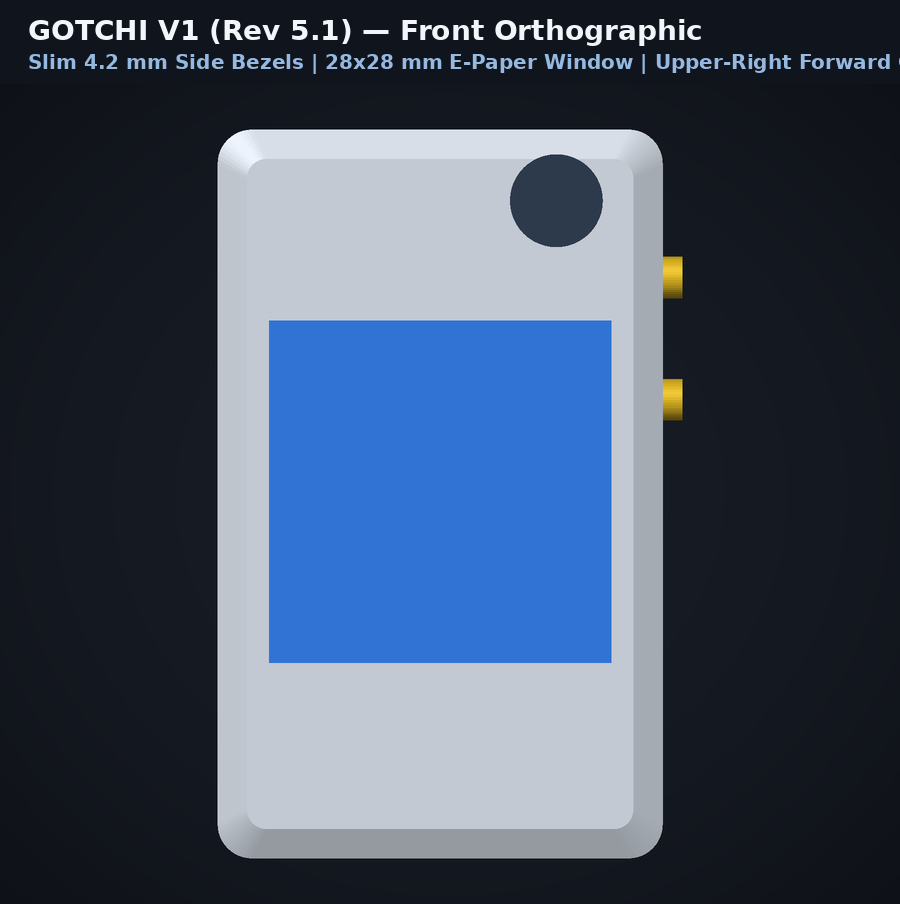
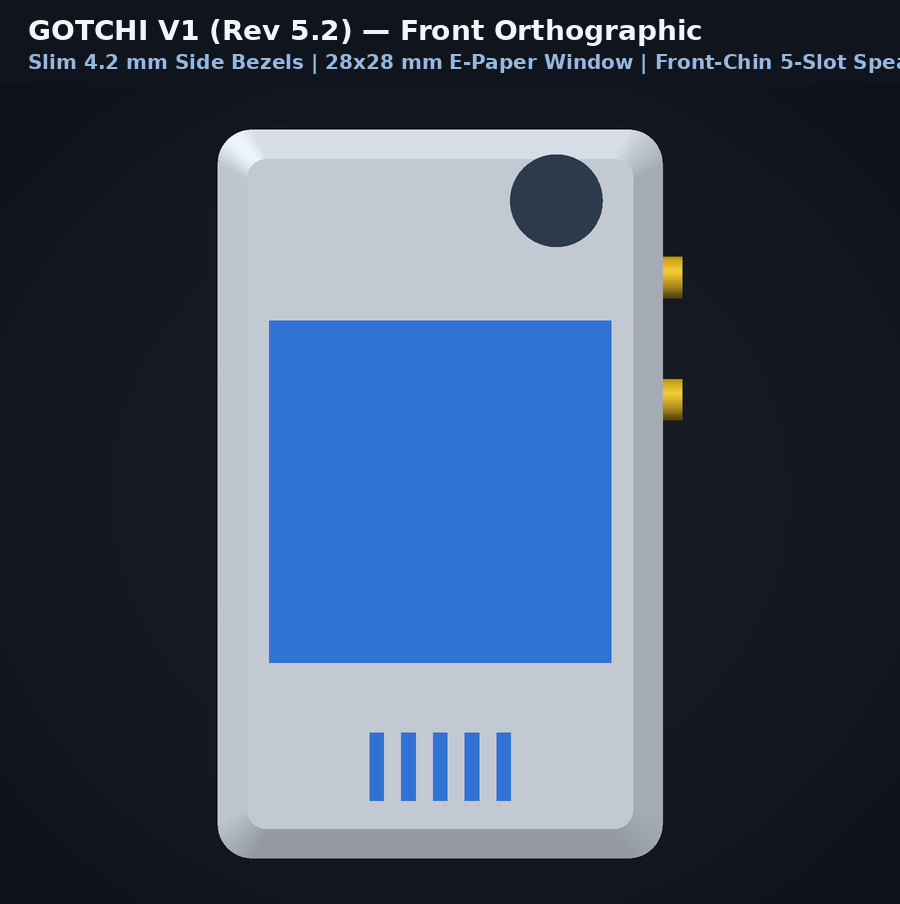
feat(cad): Rev 5.2 front-chin acoustic waveguide & +Z front-firing speaker grille, sealed back wall

Changed region(s): [[0.4044, 0.8053, 0.5911, 0.8982], [0.7156, 0.0619, 1.0, 0.0929]]

diff --git a/cad/render_labeled.py b/cad/render_labeled.py
@@ -1,7 +1,7 @@
 #!/usr/bin/env python3
 """
 render_labeled.py: True Per-Pixel Z-Buffer 3D Studio Renderer, 360° Turntable GIF Generator,
-and Labeled Orthographic CAD Renderer for GOTCHI V1 (Rev 5.1).
+and Labeled Orthographic CAD Renderer for GOTCHI V1 (Rev 5.2).
 
 Why True Per-Pixel Z-Buffer instead of matplotlib Poly3DCollection:
   - Matplotlib's Poly3DCollection uses a whole-triangle Painter's Algorithm (sorting triangles
@@ -281,7 +281,7 @@ def generate_top_labeled(p, out_path):
     f_title, f_sub, f_lbl, f_sm = load_fonts()
 
     d.rectangle([0, 0, W, 92], fill=(20, 26, 36))
-    d.text((32, 16), "GOTCHI V1 (Rev 5.1) — Front / Top-Down Internal Packaging View (36.4 x 59.6 mm)", fill=(242, 246, 250), font=f_title)
+    d.text((32, 16), "GOTCHI V1 (Rev 5.2) — Front / Top-Down Internal Packaging View (36.4 x 59.6 mm)", fill=(242, 246, 250), font=f_title)
     d.text((32, 54), "Forward-Firing Screen & Camera (+Z)  |  Upward-Pointing PDM Mic (+Y)  |  Non-Cubic Multi-Tier Stack (20.8 mm thin)", fill=(150, 185, 225), font=f_sub)
 
     cx_px, cy_px = W // 2, 705
@@ -310,9 +310,12 @@ def generate_top_labeled(p, out_path):
     sx0, sx1 = p["spk_cx"] - p["spk_w"]/2, p["spk_cx"] + p["spk_w"]/2
     sy0, sy1 = p["spk_cy"] - p["spk_h"]/2, p["spk_cy"] + p["spk_h"]/2
     d.rectangle(rect_mm(sx0, sy0, sx1, sy1), fill=(252, 202, 202), outline=(185, 28, 28), width=3)
+    # Draw Front-Chin Acoustic Waveguide plenum + 5-slot Front-Firing Speaker Grille (+Z at y = fspk_cy)
+    wgx0, wgy0, wgx1, wgy1 = rect_mm(p["fspk_cx"] - p["waveguide_w"]/2, p["waveguide_y0"], p["fspk_cx"] + p["waveguide_w"]/2, p["waveguide_y1"])
+    draw_dashed_rect(d, wgx0, wgy0, wgx1, wgy1, (185, 28, 28), width=2, dash=6)
     for ix in range(-2, 3):
-        gx = p["spk_cx"] + ix * 2.6
-        d.rectangle(rect_mm(gx - 0.5, p["spk_cy"] - 3.0, gx + 0.5, p["spk_cy"] + 3.0), fill=(153, 27, 27))
+        gx = p["fspk_cx"] + ix * 2.6
+        d.rectangle(rect_mm(gx - 0.5, p["fspk_cy"] - 2.6, gx + 0.5, p["fspk_cy"] + 2.6), fill=(153, 27, 27))
 
     bx0, by0, bx1, by1 = rect_mm(-p["bat_w"]/2, p["bat_y0"], p["bat_w"]/2, p["bat_y1"])
     draw_dashed_rect(d, bx0, by0, bx1, by1, (217, 119, 6), width=4, dash=14)
@@ -371,7 +374,7 @@ def generate_top_labeled(p, out_path):
         ("BTN_TOP: Voice / Live (+X upper-right side, y=+20.5mm)", pt(hw, p["ptt_cy"]), "R", 385),
         ("BTN_BOT: Camera / Burst (+X upper-right side, y=+10.5mm)", pt(hw, p["snap_cy"]), "R", 505),
         ("Waveshare 1.54\" V2 PCB (33x48mm, standoffs removed)", pt(16.5, -2.0), "R", 625),
-        ("Speaker 15x10x3.5mm + 5-Slot Rear Grille", pt(p["spk_cx"] + 4.0, p["spk_cy"]), "R", 785),
+        ("Front-Firing Speaker + Chin Waveguide Grille (+Z)", pt(p["fspk_cx"] + 4.5, p["fspk_cy"]), "R", 785),
         ("Open Tolerance-Safe Rear Bay (PSA / Foam Tape Mount)", pt(10.0, -16.0), "R", 945),
     ]
 
@@ -399,7 +402,7 @@ def generate_side_labeled(p, out_path):
     f_title, f_sub, f_lbl, f_sm = load_fonts()
 
     d.rectangle([0, 0, W, 92], fill=(20, 26, 36))
-    d.text((32, 16), "GOTCHI V1 (Rev 5.1) — Side Cross-Section View (59.6 mm Height x 20.8 mm Depth)", fill=(242, 246, 250), font=f_title)
+    d.text((32, 16), "GOTCHI V1 (Rev 5.2) — Side Cross-Section View (59.6 mm Height x 20.8 mm Depth)", fill=(242, 246, 250), font=f_title)
     d.text((32, 54), "Stepped Z-Stack: Dual Upper-Right Side Buttons (y=+20.5 & +10.5mm at z=-15.2mm) Behind Battery Plane", fill=(150, 185, 225), font=f_sub)
 
     cy_px = 910
@@ -423,6 +426,9 @@ def generate_side_labeled(p, out_path):
     draw_dashed_rect(d, sx0, sy0, sx1, sy1, (220, 38, 38), width=2, dash=10)
 
     d.rectangle(rect_yz(p["win_cy"] - p["win_h"]/2, -p["front_wall"], p["win_cy"] + p["win_h"]/2, 0.0), fill=(248, 250, 252), outline=(56, 189, 248), width=2)
+    # Front-Chin Acoustic Waveguide plenum (z = -2.45..-0.9 mm) & +Z Front Speaker Grille (y = fspk_cy, z = -1.4..0.0 mm)
+    d.rectangle(rect_yz(p["waveguide_y0"], -2.45, p["waveguide_y1"], -0.9), fill=(254, 226, 226), outline=(220, 38, 38), width=2)
+    d.rectangle(rect_yz(p["fspk_cy"] - 2.6, -p["front_wall"], p["fspk_cy"] + 2.6, 0.0), fill=(239, 68, 68), outline=(153, 27, 27), width=2)
     d.rectangle(rect_yz(p["disp_fpc_y0"] - 0.2, -2.6, p["disp_fpc_y1"] + 0.2, -0.8), fill=(254, 243, 199), outline=(217, 119, 6), width=2)
 
     d.rectangle(rect_yz(p["disp_glass_y0"], p["disp_glass_z1"], p["disp_glass_y1"], p["disp_glass_z0"]), fill=(147, 197, 253), outline=(29, 78, 216), width=2)
@@ -458,7 +464,7 @@ def generate_side_labeled(p, out_path):
         ("Front / Back Shell Split Plane (z = -8.8 mm)", pt(-27.2, -8.8), "L", 450),
         ("803040 LiPo Battery (z = -6.2..-14.2 mm, 8mm thick)", pt(-5.0, -10.2), "L", 550),
         ("MAX98357A Class-D Amp (z = -15.2..-18.2 mm)", pt(-2.0, -16.7), "L", 660),
-        ("15x10x3.5mm Speaker + Rear Acoustic Slots", pt(-19.0, -17.5), "L", 770),
+        ("Front-Chin Acoustic Waveguide + +Z Grille (y=-19.5mm)", pt(p["fspk_cy"], -0.7), "L", 770),
         ("Rear Twin-Rail Undercut Groove (Clip / Kickstand Slot)", pt(9.0, -20.0), "L", 880),
 
         ("Forward-Firing Camera (+Z aperture in Top Crown)", pt(27.5, -1.5), "R", 160),
@@ -514,7 +520,7 @@ def generate_turntable_gif(assembled_scene, open_scene, out_gif_path, n_frames=3
         canvas.paste(im_right, (460, 76))
         d = ImageDraw.Draw(canvas)
         d.line([(460, 76), (460, 576)], fill=(45, 55, 72), width=2)
-        d.text((22, 12), "GOTCHI V1 (Rev 5.1) — 36.4 x 59.6 x 20.8 mm (Per-Pixel Z-Buffer 360° Turntable)", fill=(242, 246, 250), font=f_sub)
+        d.text((22, 12), "GOTCHI V1 (Rev 5.2) — 36.4 x 59.6 x 20.8 mm (Per-Pixel Z-Buffer 360° Turntable)", fill=(242, 246, 250), font=f_sub)
         d.text((22, 42), "Left: Assembled Case (Dual Upper-Right Side Buttons)   |   Right: Internal Non-Cubic 3D Stack", fill=(148, 182, 224), font=f_sm)
 
         # Quantize with adaptive palette for clean GIF playback
@@ -602,7 +608,7 @@ def main():
     im = rasterize_scene_zbuffer(assembled_scene, elev_deg=24, azim_deg=35, width=900, height=820, ssaa=2)
     save_titled_render(
         im, os.path.join(ren_dir, "front_iso.png"),
-        "GOTCHI V1 (Rev 5.1) — Front-Right Isometric",
+        "GOTCHI V1 (Rev 5.2) — Front-Right Isometric",
         "36.4 x 59.6 x 20.8 mm | Dual Upper-Right Side Buttons (+X) | Upward PDM Mic (+Y)"
     )
 
@@ -610,23 +616,23 @@ def main():
     im = rasterize_scene_zbuffer(assembled_scene, elev_deg=24, azim_deg=145, width=900, height=820, ssaa=2)
     save_titled_render(
         im, os.path.join(ren_dir, "back_iso.png"),
-        "GOTCHI V1 (Rev 5.1) — Back Isometric",
-        "Flush Twin-Rail Slide-In Groove (Clip / Kickstand) | Screwless PSA / Rabbet Seam | 5-Slot Speaker Grille"
+        "GOTCHI V1 (Rev 5.2) — Back Isometric",
+        "Flush Twin-Rail Slide-In Groove (Clip / Kickstand) | Screwless PSA Seam | 100% Sealed Back Wall"
     )
 
     # 3. front_straight.png
     im = rasterize_scene_zbuffer(assembled_scene, elev_deg=0, azim_deg=0, width=900, height=820, ssaa=2)
     save_titled_render(
         im, os.path.join(ren_dir, "front_straight.png"),
-        "GOTCHI V1 (Rev 5.1) — Front Orthographic",
-        "Slim 4.2 mm Side Bezels | 28x28 mm E-Paper Window | Upper-Right Forward Camera Aperture"
+        "GOTCHI V1 (Rev 5.2) — Front Orthographic",
+        "Slim 4.2 mm Side Bezels | 28x28 mm E-Paper Window | Front-Chin 5-Slot Speaker Grille (+Z)"
     )
 
     # 4. back_layout.png
     im = rasterize_scene_zbuffer(open_scene, elev_deg=26, azim_deg=35, width=900, height=820, ssaa=2)
     save_titled_render(
         im, os.path.join(ren_dir, "back_layout.png"),
-        "GOTCHI V1 (Rev 5.1) — Internal 3D Multi-Tier Packaging",
+        "GOTCHI V1 (Rev 5.2) — Internal 3D Multi-Tier Packaging",
         "Yellow: Dual Upper-Right Side Buttons (+X) | Blue: Display | Green: XIAO+Mic | Gold: 803040 LiPo"
     )
 
@@ -634,7 +640,7 @@ def main():
     im = rasterize_scene_zbuffer(exploded_scene, elev_deg=22, azim_deg=38, width=900, height=820, ssaa=2)
     save_titled_render(
         im, os.path.join(ren_dir, "exploded.png"),
-        "GOTCHI V1 (Rev 5.1) — Exploded Multi-Tier Stack",
+        "GOTCHI V1 (Rev 5.2) — Exploded Multi-Tier Stack",
         "Front Bezel -> Display + Forward Camera -> XIAO + 803040 Battery -> Amp + Speaker + Side Buttons -> Back Shell"
     )
 

diff --git a/cad/build_case.py b/cad/build_case.py
@@ -1,12 +1,12 @@
 #!/usr/bin/env python3
 """
-GOTCHI V1 Printable Enclosure — Revision 5.1 (PSA / Snap-Rabbet Seam, Compact 59.6mm Y & Open Tolerance-Safe Bays)
+GOTCHI V1 Printable Enclosure — Revision 5.2 (PSA / Snap-Rabbet Seam, Compact 59.6mm Y & Open Tolerance-Safe Bays)
 ==================================================================================================================
 Outer envelope: 36.4 x 59.6 x 20.8 mm (44.5 cm^3 — 43.9% smaller volume than Rev 1's
 38.0 x 72.0 x 29.0 mm / 79.3 cm^3 box, 8.2 mm thinner in Z, 13.2 mm shorter in Y,
 with slim 4.2 mm side bezels around the 28.0 x 28.0 mm active screen window).
 
-Key Architectural & Packaging Improvements (Rev 5.1):
+Key Architectural & Packaging Improvements (Rev 5.2):
 1. Screwless Perimeter Rabbet / PSA Closure (Option B):
    - Eliminates all 4 corner M2 screw bosses and counterbores, reclaiming corner volume and
      completely eliminating boss overlaps with the camera and speaker.
@@ -133,10 +133,16 @@ P = dict(
     spk_w=15.0,
     spk_h=10.0,
     spk_d=3.5,
-    spk_cx=-2.0,    # Shifted left & up into lower rear bay (x = -9.5 to +5.5 mm)
-    spk_cy=-16.0,   # y = -21.0 to -11.0 mm (directly touches bottom of screen window line y=-11.0, zero wasted gap!)
+    spk_cx=0.0,     # Centered horizontally in lower bay (x = -7.5 to +7.5 mm)
+    spk_cy=-16.0,   # y = -21.0 to -11.0 mm (fires forward +Z into lower acoustic waveguide)
     spk_z0=-15.7,
     spk_z1=-19.2,
+    # Front-Chin Acoustic Waveguide & Forward Speaker Grille (+Z front bezel below screen window)
+    fspk_cx=0.0,
+    fspk_cy=-19.5,  # Centered in lower front chin bezel (below screen window y=-11.0 and glass y=-16.0)
+    waveguide_w=13.6,
+    waveguide_y0=-25.5,
+    waveguide_y1=-16.3,
 
     # 6. Controls:
     # Both BTN_TOP (PTT/Voice) and BTN_BOT (Camera/Burst) stacked on the Upper-Right Side Wall (+X wall)
@@ -271,7 +277,21 @@ def build_front_shell():
     # Forward-firing Camera Lens Aperture (+Z front face, at x=cam_cx, y=cam_cy)
     cam_cut = make_cyl_z(p['cam_lens_d'] / 2.0, -3.0, 1.0, cx=p['cam_cx'], cy=p['cam_cy'])
 
-    part = trimesh.boolean.difference([part, rabbet_cut, win_cut, fpc_cut, cam_cut], engine='manifold')
+    # Front-Chin Acoustic Waveguide plenum on underside of lower front bezel (routes sound around bottom PCB edge to +Z)
+    wg_plenum = make_box(
+        p['fspk_cx'] - p['waveguide_w'] / 2.0, p['fspk_cx'] + p['waveguide_w'] / 2.0,
+        p['waveguide_y0'], p['waveguide_y1'],
+        -2.45, -0.9
+    )
+    # 5-slot Front-Firing Speaker Grille in lower front bezel (+Z face at y = fspk_cy)
+    front_grille_cuts = [wg_plenum]
+    for ix in range(-2, 3):
+        gx = p['fspk_cx'] + ix * 2.6
+        front_grille_cuts.append(
+            make_box(gx - 0.6, gx + 0.6, p['fspk_cy'] - 2.8, p['fspk_cy'] + 2.8, -2.5, 0.5)
+        )
+
+    part = trimesh.boolean.difference([part, rabbet_cut, win_cut, fpc_cut, cam_cut] + front_grille_cuts, engine='manifold')
     return part
 
 
@@ -326,10 +346,7 @@ def build_back_shell():
         p['sw_cz'] - p['sw_slot_z'] / 2.0, p['sw_cz'] + p['sw_slot_z'] / 2.0
     ))
 
-    # 7. Speaker acoustic slot grille in back wall (centered at spk_cx = -2.0, spk_cy = -15.5)
-    for ix in range(-2, 3):
-        gx = p['spk_cx'] + ix * 2.6
-        cutters.append(make_box(gx - 0.6, gx + 0.6, p['spk_cy'] - 3.2, p['spk_cy'] + 3.2, -p['D_out'] - 0.5, -p['D_out'] + p['back_wall'] + 0.5))
+    # 7. Back wall behind speaker is now 100% solid & sealed (reflects acoustic energy forward into Front-Chin Waveguide)
 
     part = trimesh.boolean.union([part] + adds, engine='manifold')
     part = trimesh.boolean.difference([part] + cutters, engine='manifold')
